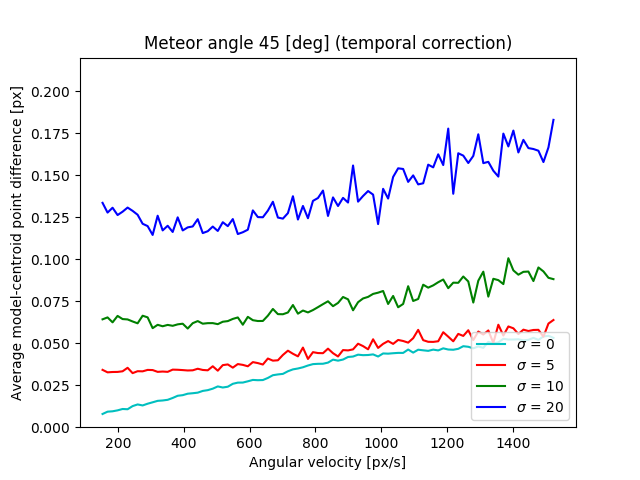
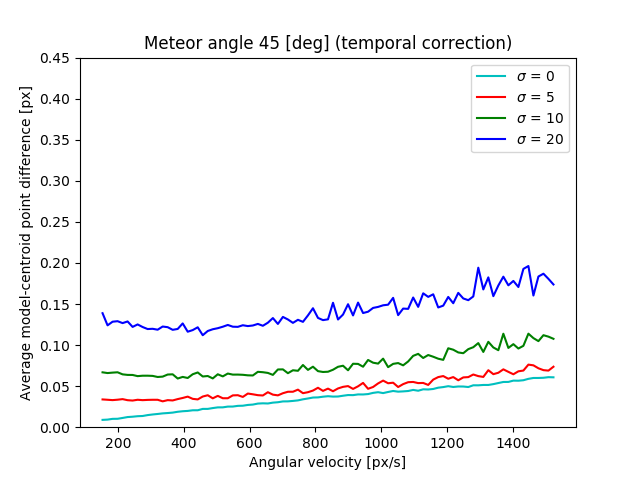
final plots and simulations done

diff --git a/Source/ODN-Rtemp_corrPlot.py b/Source/ODN-Rtemp_corrPlot.py
@@ -23,7 +23,7 @@ plt.plot(omega_arr, noise2_data, 'g-', label = '$\sigma$ = {}'.format(par.noise_
 plt.plot(omega_arr, noise3_data, 'b-', label = '$\sigma$ = {}'.format(par.noise_scale_arr[3]))
 
 # Label the plot, set plot title, set legend
-plt.legend(loc = 'lower right')
+plt.legend(loc = 'best')
 plt.xlabel("Angular velocity [px/s]")
 plt.ylabel("Average model-centroid point difference [px]")
 plt.title("Meteor angle {} [deg] (temporal correction)".format(par.phi))
@@ -31,7 +31,7 @@ plt.title("Meteor angle {} [deg] (temporal correction)".format(par.phi))
 
 # Configure the plot axis
 plt.axis('tight')
-plt.ylim((0, 0.22))
+plt.ylim((0, 0.45))
 
 # Save and show plot
 plt.savefig('../Graphs/ODN/graph_odn_temp_rolling.png')

diff --git a/Source/ODN-Rv_corrPlot.py b/Source/ODN-Rv_corrPlot.py
@@ -23,7 +23,7 @@ plt.plot(omega_arr, noise2_data, 'g-', label = '$\sigma$ = {}'.format(par.noise_
 plt.plot(omega_arr, noise3_data, 'b-', label = '$\sigma$ = {}'.format(par.noise_scale_arr[3]))
 
 # Label the plot, set plot title, set legend
-plt.legend(loc = 'lower right')
+plt.legend(loc = 'best')
 plt.xlabel("Angular velocity [px/s]")
 plt.ylabel("Average model-centroid point difference [px]")
 plt.title("Meteor angle {} [deg] (corrected velocity)".format(par.phi))
@@ -31,7 +31,7 @@ plt.title("Meteor angle {} [deg] (corrected velocity)".format(par.phi))
 
 # Configure the plot axis
 plt.axis('tight')
-plt.ylim((0, 0.22))
+plt.ylim((0, 0.45))
 
 # Save and show plot
 plt.savefig('../Graphs/ODN/graph_odn_v_corr_rolling.png')

diff --git a/Figures/Source/dec_generator.py b/Figures/Source/dec_generator.py
@@ -16,7 +16,7 @@ delta_omega = np.arange(start, fin, step)
 
 print(delta_omega)
 
-a = 1.1/1000
+a = 1/1000
 b_arr = []
 
 fin_t = 0.5
